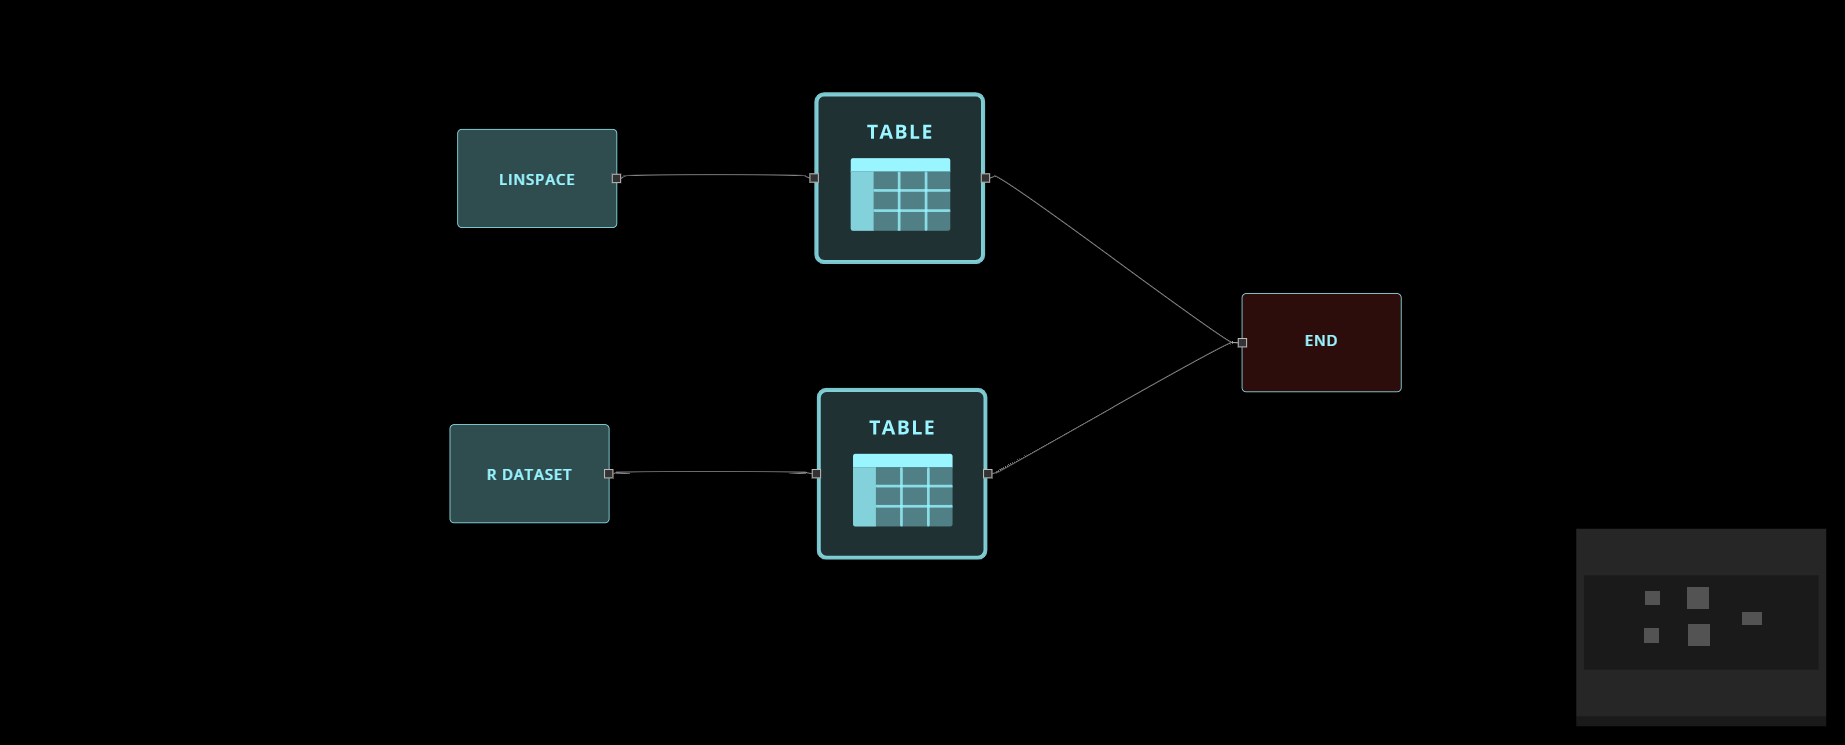
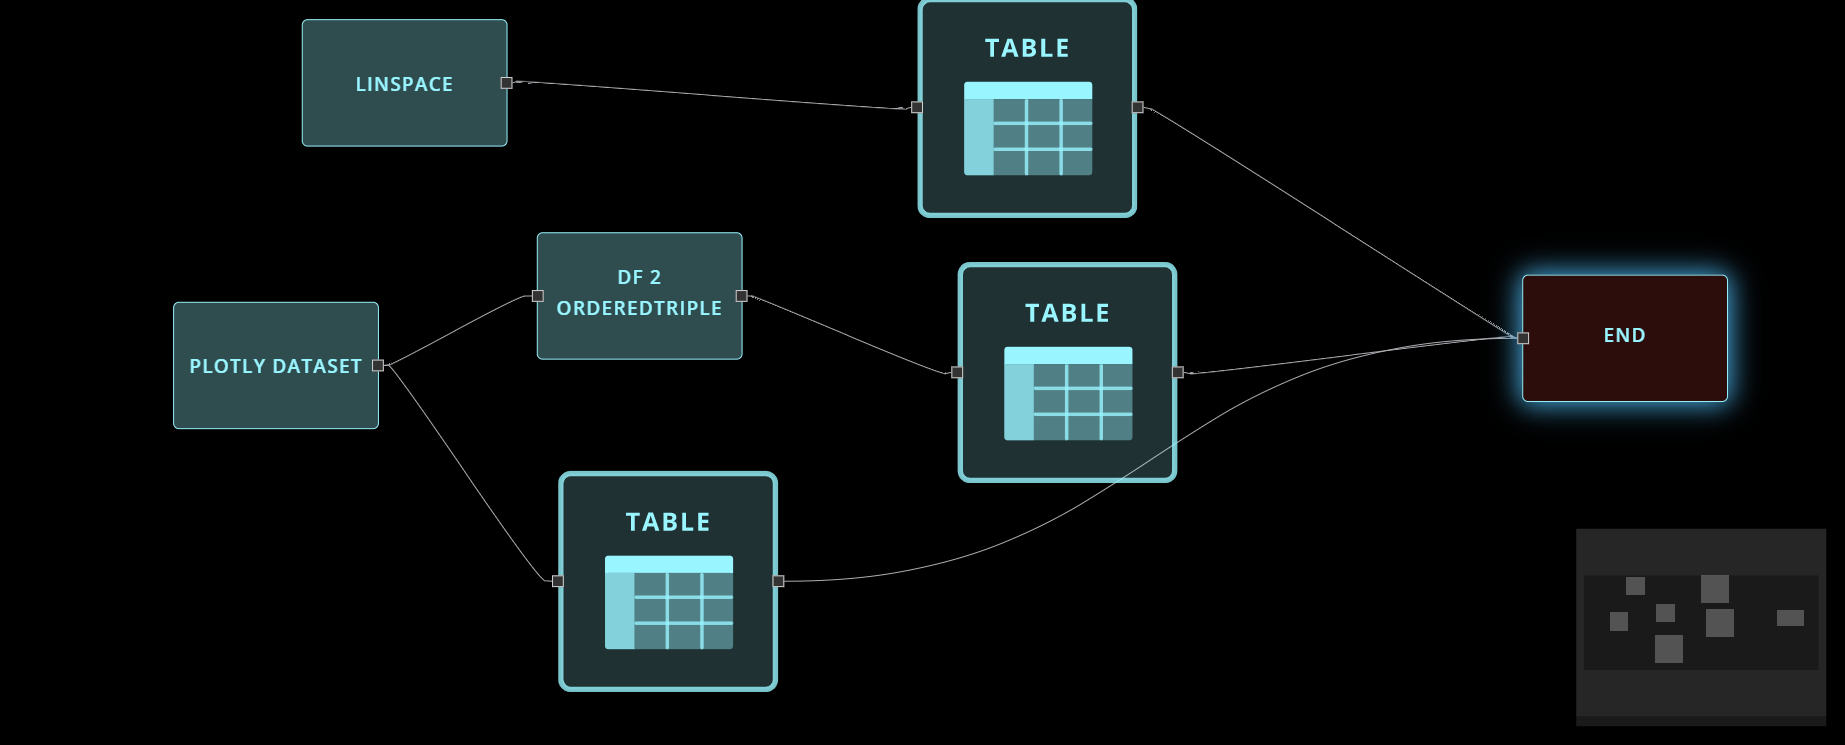
update output image for TABLE node

Changed region(s): [[0.0927, 0.0, 0.9577, 0.9262], [0.1545, 0.0, 0.4325, 0.494], [0.865, 0.7718, 0.9886, 0.8953]]

diff --git a/AI_ML/IMAGE_CAPTIONING/NLP_CONNECT_VIT_GPT2/NLP_CONNECT_VIT_GPT2.py b/AI_ML/IMAGE_CAPTIONING/NLP_CONNECT_VIT_GPT2/NLP_CONNECT_VIT_GPT2.py
@@ -1,20 +1,17 @@
-from flojoy import (
-    flojoy,
-    run_in_venv,
-    DataFrame,
-    Image
-)
+from flojoy import flojoy, run_in_venv, DataFrame, Image
 
 import numpy as np
 import pandas as pd
 
 
 @flojoy
-@run_in_venv(pip_dependencies=[
-    "transformers==4.30.2",
-    "torch==1.13.0",
-    "torchvision==0.14.0",
-])
+@run_in_venv(
+    pip_dependencies=[
+        "transformers==4.30.2",
+        "torch==1.13.0",
+        "torchvision==0.14.0",
+    ]
+)
 def NLP_CONNECT_VIT_GPT2(default: Image) -> DataFrame:
     """The NLP_CONNECT_VIT_GPT2 node captions an input image and produces an output string wrapped
     in a dataframe.
@@ -31,7 +28,7 @@ def NLP_CONNECT_VIT_GPT2(default: Image) -> DataFrame:
 
     import transformers
     import torchvision.transforms.functional as TF
-    from flojoy import snapshot_download 
+    from flojoy import snapshot_download
 
     r, g, b, a = default.r, default.g, default.b, default.a
     nparray = (
@@ -42,17 +39,17 @@ def NLP_CONNECT_VIT_GPT2(default: Image) -> DataFrame:
     # Download repo to local flojoy cache
     local_repo_path = snapshot_download(
         repo_id="nlpconnect/vit-gpt2-image-captioning",
-        revision= "dc68f91c06a1ba6f15268e5b9c13ae7a7c514084",
-        local_dir_use_symlinks=False
+        revision="dc68f91c06a1ba6f15268e5b9c13ae7a7c514084",
+        local_dir_use_symlinks=False,
     )
     # Load model objects
     model = transformers.VisionEncoderDecoderModel.from_pretrained(local_repo_path)
     feature_extractor = transformers.ViTImageProcessor.from_pretrained(local_repo_path)
     tokenizer = transformers.AutoTokenizer.from_pretrained(local_repo_path)
 
-    pixel_values = feature_extractor(images=[image], return_tensors="pt").pixel_values # type: ignore
-    output_ids = model.generate(pixel_values, max_length=16, num_beams=4) # type: ignore
-    preds = tokenizer.batch_decode(output_ids, skip_special_tokens=True) # type: ignore
+    pixel_values = feature_extractor(images=[image], return_tensors="pt").pixel_values  # type: ignore
+    output_ids = model.generate(pixel_values, max_length=16, num_beams=4)  # type: ignore
+    preds = tokenizer.batch_decode(output_ids, skip_special_tokens=True)  # type: ignore
     pred = preds[0].strip()
 
     df_pred = pd.DataFrame.from_records([(pred,)], columns=["caption"])

diff --git a/AI_ML/IMAGE_CAPTIONING/NLP_CONNECT_VIT_GPT2/NLP_CONNECT_VIT_GPT2_test_.py b/AI_ML/IMAGE_CAPTIONING/NLP_CONNECT_VIT_GPT2/NLP_CONNECT_VIT_GPT2_test_.py
@@ -16,12 +16,9 @@ def mock_flojoy_decorator():
 
 @pytest.fixture
 def obama_image_array_rgb():
-    _image_path = (
-        f"{os.path.dirname(os.path.realpath(__file__))}/assets/President_Barack_Obama.jpg"
-    )
+    _image_path = f"{os.path.dirname(os.path.realpath(__file__))}/assets/President_Barack_Obama.jpg"
     image = PIL.Image.open(_image_path).convert("RGB")
     return np.array(image)
-
 
 
 def test_NLP_CONNECT_VIT_GPT2(mock_flojoy_decorator, obama_image_array_rgb):
@@ -33,5 +30,8 @@ def test_NLP_CONNECT_VIT_GPT2(mock_flojoy_decorator, obama_image_array_rgb):
         b=obama_image_array_rgb[:, :, 2],
         a=None,
     )
-    output_df = NLP_CONNECT_VIT_GPT2.NLP_CONNECT_VIT_GPT2(input_img) # type: ignore
-    assert output_df.m.iloc[0].caption == "a man in a suit and tie standing in front of a flag"
+    output_df = NLP_CONNECT_VIT_GPT2.NLP_CONNECT_VIT_GPT2(input_img)  # type: ignore
+    assert (
+        output_df.m.iloc[0].caption
+        == "a man in a suit and tie standing in front of a flag"
+    )

diff --git a/TRANSFORMERS/ARITHMETIC/MULTIPLY/MULTIPLY_test_.py b/TRANSFORMERS/ARITHMETIC/MULTIPLY/MULTIPLY_test_.py
@@ -27,9 +27,7 @@ import MULTIPLY
 
 def test_MULTIPLY():
     # create the two ordered pair datacontainers
-    element_a = OrderedPair(
-        x=numpy.linspace(-10, 10, 100), y=[10] * 100
-    )
+    element_a = OrderedPair(x=numpy.linspace(-10, 10, 100), y=[10] * 100)
 
     element_b = Scalar(c=10)
 

diff --git a/TRANSFORMERS/ARITHMETIC/SUBTRACT/SUBTRACT_test_.py b/TRANSFORMERS/ARITHMETIC/SUBTRACT/SUBTRACT_test_.py
@@ -27,9 +27,7 @@ import SUBTRACT
 
 def test_SUBTRACT():
     # create the two ordered pair datacontainers
-    element_a = OrderedPair(
-        x=numpy.linspace(-10, 10, 100), y=[11] * 100
-    )
+    element_a = OrderedPair(x=numpy.linspace(-10, 10, 100), y=[11] * 100)
 
     element_b = Scalar(c=10)
 

diff --git a/LOADERS/LOCAL_FILE_SYSTEM/OPEN_MATLAB/OPEN_MATLAB.py b/LOADERS/LOCAL_FILE_SYSTEM/OPEN_MATLAB/OPEN_MATLAB.py
@@ -1,9 +1,4 @@
-<<<<<<< HEAD
-from flojoy import flojoy, DataFrame
-from typing import Union
-=======
 from flojoy import DataFrame, flojoy
->>>>>>> new-node-api
 import numpy as np
 from scipy.io import loadmat
 from os import path

diff --git a/VISUALIZERS/PLOTLY/TABLE/example.md b/VISUALIZERS/PLOTLY/TABLE/example.md
@@ -1,1 +1,7 @@
-In this example we're simulating data from `LINSPACE` and `R_DATASET` and visualizing them with `TABLE` node which creates a Plotly Table visualization for each of the input node.
+In this example, we start by using the `LINSPACE` node to generate a `Vector` object of the `DataContainer` class.
+
+Next, we employ the `PLOTLY_DATASET` node to create a `DataFrame` object of the `DataContainer` class.
+
+To convert the `DataFrame` into an `OrderedTriple` object of the `DataContainer` class, we utilize the `DF_2_ORDEREDTRIPLE` node. The resulting `OrderedTriple` object contains three arrays: x, y, and z.
+
+Finally, we visualize the data from these three nodes using the `TABLE` node, which generates a Plotly Table visualization for each of the input nodes.
